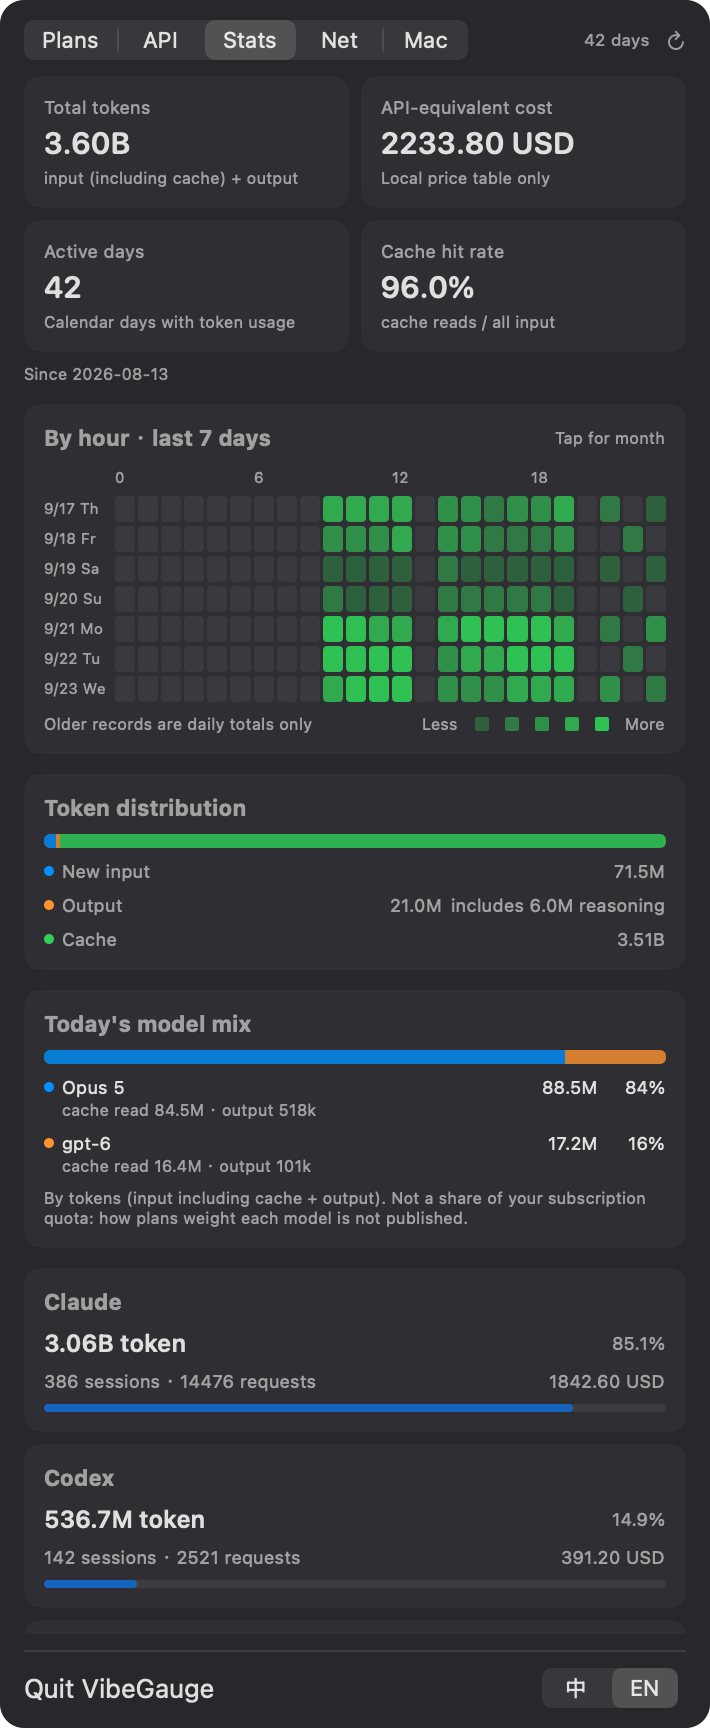
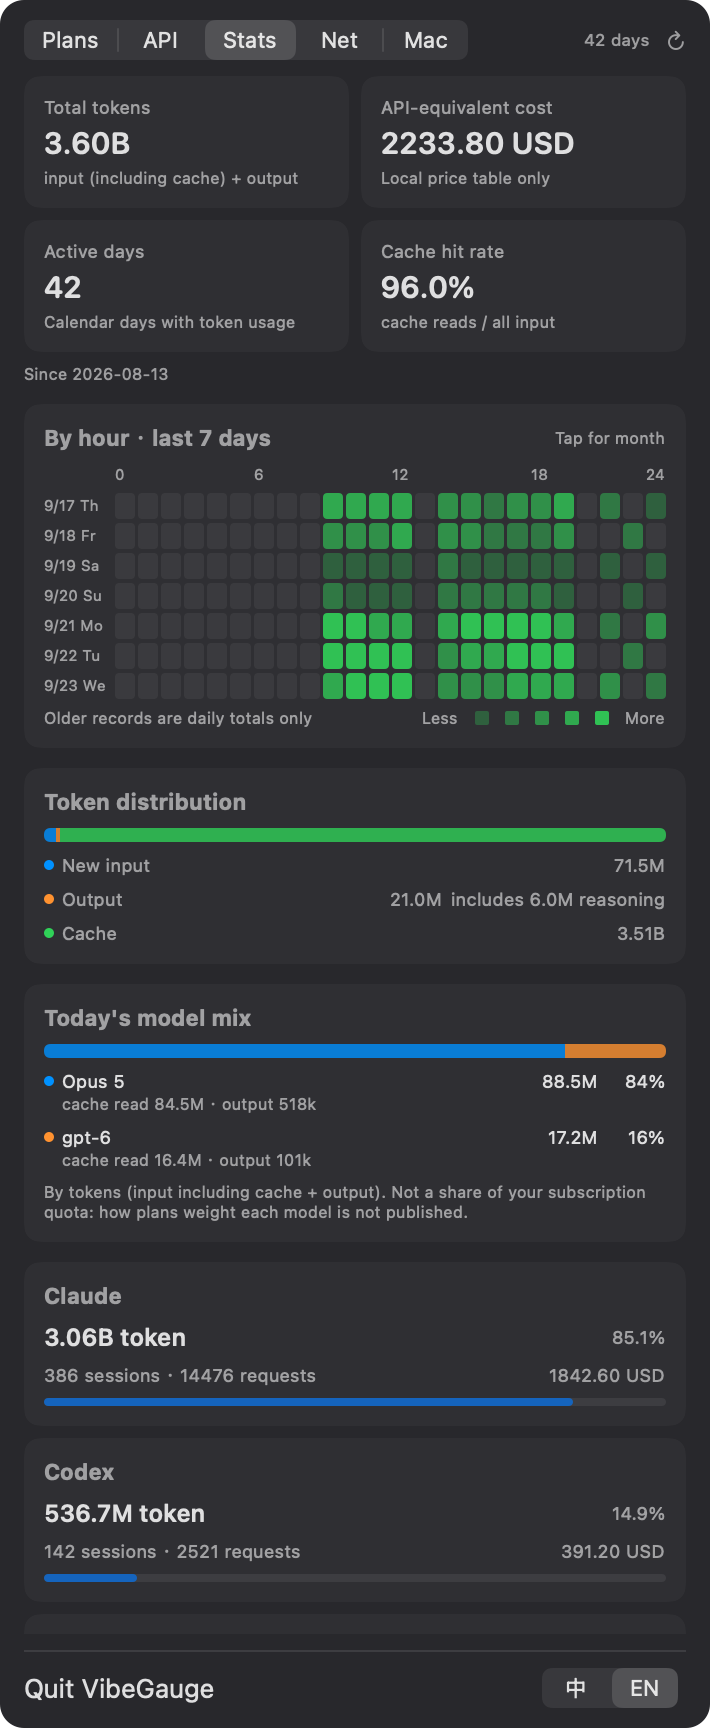
fix(stats): heatmap keeps one height across both views; hour axis ends at 24

diff --git a/Sources/StatsTabView.swift b/Sources/StatsTabView.swift
@@ -85,7 +85,8 @@ public struct StatsTabView: View {
                     .font(.system(size: 8)).foregroundColor(.secondary)
             }
             .font(.system(size: 9)).foregroundColor(.secondary)
-            if heatmapHourly { hourlyGrid } else { monthGrid }
+            // 两种视图同一高度（按时段视图 7 行定），切换时面板不跳；月历 5 / 6 周自己分行高
+            Group { if heatmapHourly { hourlyGrid } else { monthGrid } }.frame(height: Self.heatmapHeight)
             HStack {
                 Text(heatmapHourly ? L("更早的记录已按天汇总，没有时段", "Older records are daily totals only") : maxDayText)
                 Spacer()
@@ -101,6 +102,8 @@ public struct StatsTabView: View {
         .contentShape(Rectangle())
         .onTapGesture { heatmapHourly.toggle() }
     }
+
+    static let heatmapHeight: CGFloat = 116
 
     private func heatColor(_ level: Int) -> Color {
         level == 0 ? Color.secondary.opacity(0.10) : Color.green.opacity(0.15 + Double(level) * 0.15)
@@ -131,7 +134,7 @@ public struct StatsTabView: View {
         let grades = Array(UsageHistory.levels(reference + values).suffix(values.count))
         let today = cal.startOfDay(for: Date())
         let heads = [L("一", "Mo"), L("二", "Tu"), L("三", "We"), L("四", "Th"), L("五", "Fr"), L("六", "Sa"), L("日", "Su")]
-        return VStack(spacing: 4) {
+        return VStack(spacing: 3) {
             HStack(spacing: 4) {
                 ForEach(0..<7, id: \.self) { i in
                     Text(heads[i]).font(.system(size: 8)).foregroundColor(.secondary).frame(maxWidth: .infinity)
@@ -144,7 +147,7 @@ public struct StatsTabView: View {
                         if let d = cells[i] {
                             dayCell(d, today: today, grade: grades[i], tip: "\(keys[i] ?? "") · \(Fmt.tokens(values[i])) token")
                         } else {
-                            Color.clear.frame(maxWidth: .infinity).frame(height: 16)
+                            Color.clear.frame(maxWidth: .infinity, maxHeight: .infinity)
                         }
                     }
                 }
@@ -160,7 +163,7 @@ public struct StatsTabView: View {
             .overlay(RoundedRectangle(cornerRadius: 3).stroke(border, lineWidth: 1))
             .overlay(Text("\(Calendar.current.component(.day, from: d))").font(.system(size: 7.5))
                 .foregroundColor(grade >= 4 ? Color.black.opacity(0.7) : Color.secondary))
-            .frame(maxWidth: .infinity).frame(height: 16)
+            .frame(maxWidth: .infinity, maxHeight: .infinity)
             .help(tip)
     }
 
@@ -176,8 +179,9 @@ public struct StatsTabView: View {
             HStack(spacing: 1.5) {
                 Text("").frame(width: 34)
                 ForEach(0..<24, id: \.self) { h in
-                    Text(h % 6 == 0 ? "\(h)" : " ").font(.system(size: 7.5)).foregroundColor(.secondary)
-                        .lineLimit(1).frame(maxWidth: .infinity, alignment: .leading)
+                    // 刻度标在格子左沿（0 / 6 / 12 / 18），最后一格右沿补 24，看得出一天到哪结束
+                    Text(h % 6 == 0 ? "\(h)" : h == 23 ? "24" : " ").font(.system(size: 7.5)).foregroundColor(.secondary)
+                        .lineLimit(1).fixedSize().frame(maxWidth: .infinity, alignment: h == 23 ? .trailing : .leading)
                 }
             }
             ForEach(0..<7, id: \.self) { row in
